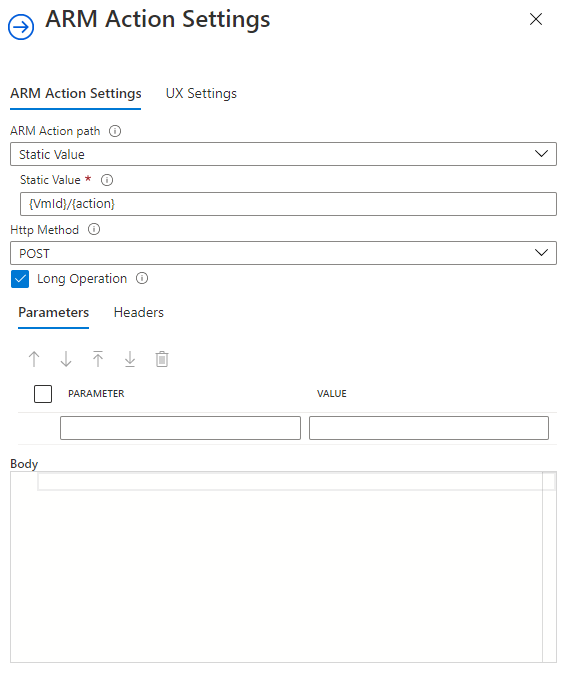
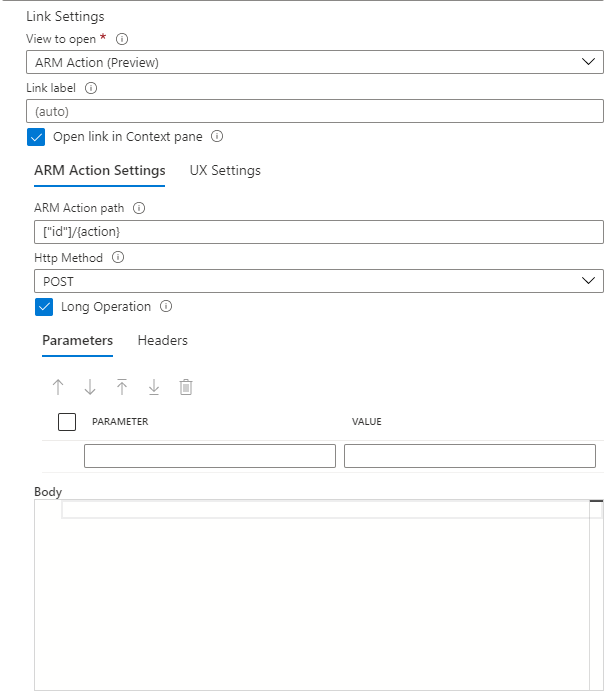
update fields and screenshots with working example

diff --git a/scripts/extractStrings.js b/scripts/extractStrings.js
@@ -16,7 +16,8 @@ const LocKeys = [
   "loadButtonText",
   "noDataMessage",
   "markDown", // specific to cohorts
-  "actionName"
+  "actionName",
+  "runLabel"
 ];
 
 // For Workbook items that are arrays, these are the following field names that uniquely identify them

diff --git a/Documentation/Links/LinkActions.md b/Documentation/Links/LinkActions.md
@@ -53,7 +53,7 @@ When using the `Make this item a link` option, the following settings are availa
 
 ## ARM Action Settings
 
-Use this setting to invoke an ARM action by specifying the ARM api details.
+Use this setting to invoke an ARM action by specifying the ARM api details. The documentation for ARM REST apis can be found [here](https://aka.ms/armrestapi). In all of the UX fields, you can resolve parameters using `{paramName}`. Also you can resolve columns using `["columnName"]`. In the example images below, we can reference the column `id` by writing `["id"]`. If the column is an Azure Resource Id, you can get a friendly name of the resource using the formatter `label`. This is similar to [parameter formatters](../Parameters/Parameters.md#parameter-formatting).
 
 ### ARM Action Settings Tab
 
@@ -61,12 +61,12 @@ This section defines the ARM action API.
 
 | Source | Explanation |
 |:------------- |:-------------|
-|`ARM Action path` | The ARM action path. eg /subscriptions/:subscription/resourceGroups/:resourceGroup/someAction?api-version=:apiversion. Select from `Cell`, `Column`, `Static Value`, or `Parameter` in [Link sources](#link-sources).|
+|`ARM Action path` | The ARM action path. eg /subscriptions/:subscription/resourceGroups/:resourceGroup/someAction?api-version=:apiversion.|
 |`Http Method` | Select an HTTP method. The available choices are `POST`, `PUT`, `PATCH`, `DELETE`|
-|`Long Operation` | Long Operations will poll the URI from the Azure-AsyncOperation response header from the original operation.|
+|`Long Operation` | Long Operations will poll the URI from the `Azure-AsyncOperation` or the `Location` response header from the original operation. More info [here](https://docs.microsoft.com/en-us/azure/azure-resource-manager/management/async-operations).|
 |`Parameters`| URL parameters grid with the key and value.|
 |`Headers` | Headers grid with the key and value.|
-|`Body` | Editor for the request payload.|
+|`Body` | Editor for the request payload in JSON.|
 
 ![Image showing ARM Action settings](../Images/ArmActionSettings.png)
 
@@ -76,15 +76,20 @@ This section configures what the users will see before they run the ARM action.
 
 | Source | Explanation |
 |:------------- |:-------------|
-|`Title from` | Title used on the run view. Select from `Cell`, `Column`, `Parameter`, or `Static Value` in [Link sources](#link-sources).|
-|`Customize success result` | Authors can customize the success result when an ARM action is successful but no content is returned in the response.|
-|`Description from` | This is the markdown text used to provide a helpful description to users when they want to run the ARM action. Select from `Cell`, `Column`, `Parameter`, or `Static Value`  in [Link sources](#link-sources). <br/><br/> **NOTE:** If `Static Value` is selected, a multi-line text box will appear. In this text box you can resolve parameters using `{paramName}`. Also you can treat columns as parameters by appending `_column` after the column name like `{columnName_column}`. In the example image below, we can reference the column `VMName` by writing `{VMName_column}`. The value after the colon is the [parameter formatter](../Parameters/Parameters.md#parameter-formatting), in this case it's `value`.|
+|`Title` | Title used on the run view. |
+|`Customize ARM Action name` | Authors can customize the ARM action that is displayed on the notification after the action is triggered.|
+|`Description of ARM Action` | This is the markdown text used to provide a helpful description to users when they want to run the ARM action. |
 |`Run button text from` | Label used on the run (execute) button to trigger the ARM action.|
 
 ![Image showing ARM UX settings](../Images/ArmActionUXSettings.png)
 
-After these configurations are set, when the user clicks on the link, it will open up the view with the UX described in [ARM Action UX Settings](#ARM-Action-UX-Settings). From here, if the user clicks on the button specified by `Run button text from` it will run the ARM action using the values from [ARM Action UX Settings](#ARM-Action-UX-Settings). 
+After these configurations are set, when the user clicks on the link, it will open up the view with the UX described in [ARM Action UX Settings](#ARM-Action-UX-Settings). From here, if the user clicks on the button specified by `Run button text from` it will run the ARM action using the values from [ARM Action UX Settings](#ARM-Action-UX-Settings).
 
+![Image showing ARM Action settings](../Images/ArmActionBlade.png)
+
+The progress and result of the ARM Action will be shown as an Azure Portal notification.
+
+![Image showing ARM UX settings](../Images/ArmActionCustomNotification.png)
 ## ARM Deployment link settings
 If the selected link type is `ARM Deployment` the author must specify additional settings to open an ARM deployment. There are two main tabs for configuration. 
 
